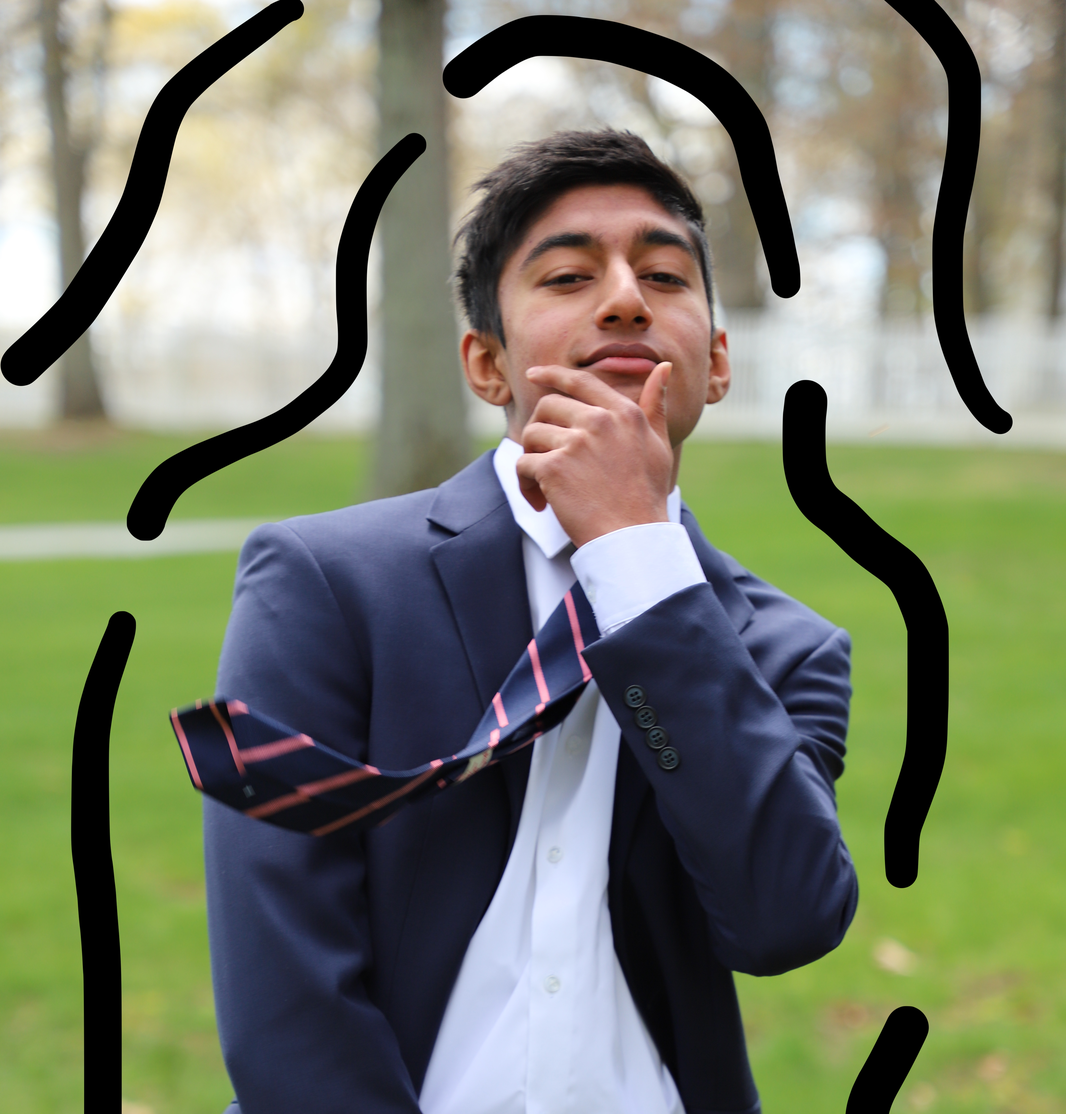
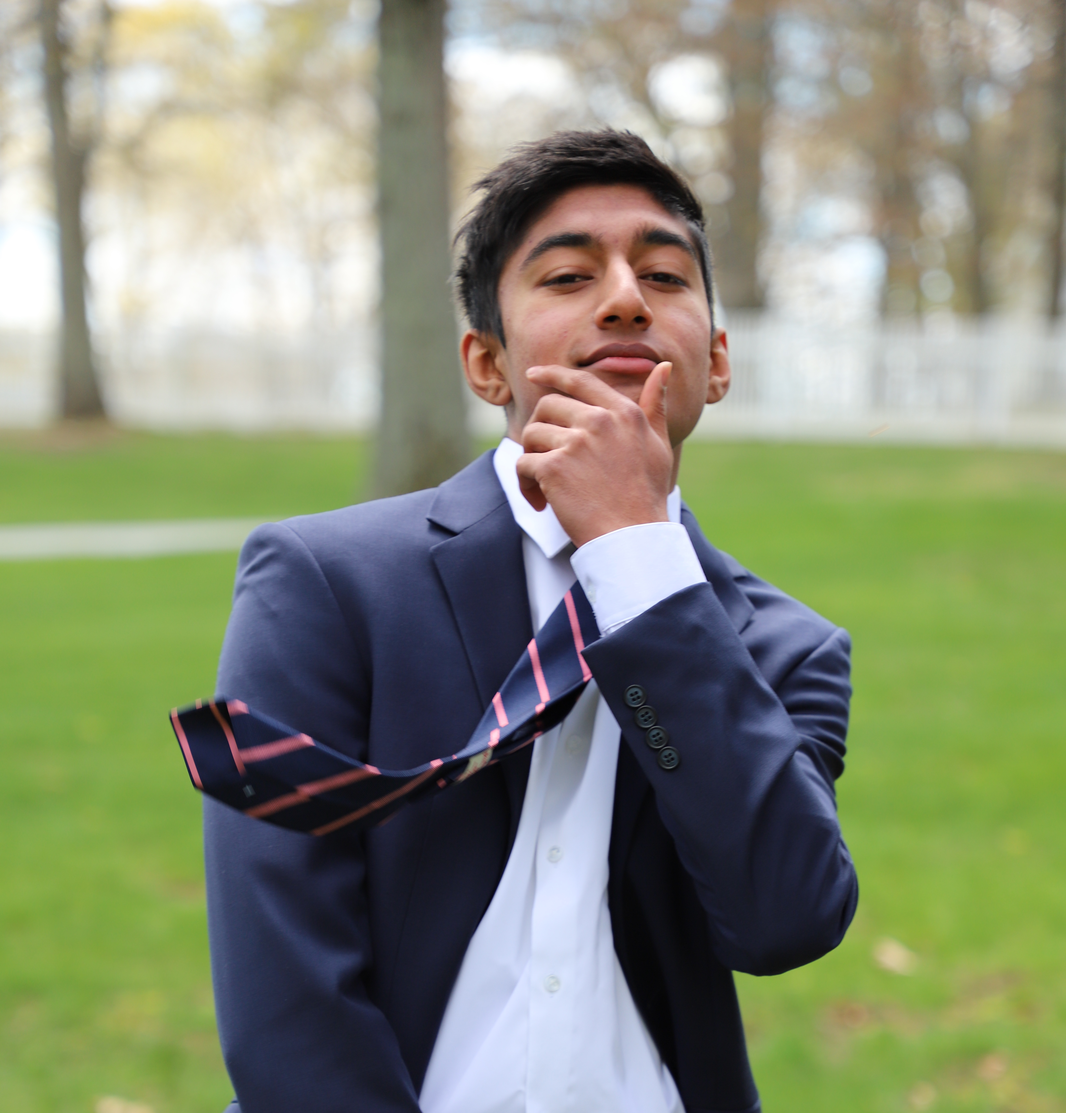
stable version of about page

diff --git a/final/aboutPage/index.html b/final/aboutPage/index.html
@@ -12,6 +12,7 @@
   <title>about</title>
   <script src="https://cdnjs.cloudflare.com/ajax/libs/animejs/3.2.0/anime.min.js"></script>
   <link href="https://fonts.googleapis.com/css2?family=Montserrat:wght@100&display=swap" rel="stylesheet">
+  <!-- <link href="https://fonts.googleapis.com/css2?family=Montserrat&display=swap" rel="stylesheet"> -->
   <link rel="stylesheet" href="https://cdnjs.cloudflare.com/ajax/libs/font-awesome/4.7.0/css/font-awesome.min.css">
   <link rel="stylesheet" href="style.css">
 </head>
@@ -41,7 +42,8 @@
     <a href="https://www.linkedin.com/in/sameer-desai-998679175/" class="linkedin"><i class="fa fa-linkedin"></i></a>
     <a href="https://www.instagram.com/smee_boi/" class="instagram"><i class="fa fa-instagram"></i></a>
     <a href="https://soundcloud.com/user-949043667" class="soundcloud"><i class="fa fa-soundcloud"></i></a>
-    <a href="mailto: sameer.desai.boston@gmail.com" class="google"><i class="fa fa-google"></i></a>
+    <a href="https://github.com/SmeeBoi" class="github"><i class="fa fa-github"></i></a>
+    <!-- <a href="mailto: sameer.desai.boston@gmail.com" class="google"><i class="fa fa-google"></i></a> -->
 
   </div>
 
@@ -72,9 +74,8 @@
     </div>
 
     <p>Source Code: <a href="https://github.com/SmeeBoi/senior-project/tree/master/final/exhibit01"> https://github.com/SmeeBoi/senior-project/tree/master/final/exhibit01 </a> </p>
-    <p class="textBlock">Exhibit 01 was created using the p5.js library in conjunction with matter.js, a popular 2D physics engine. The size of each circle object is contrulled by the vulume of the music and all of the circle objects have Collision
-      detection, friction,
-      and gravity thanks to the physics engine. All the calculations are done in the matter.js physics engine while p5.js processes the audio and does all the drawing on the HTML canvas. </p>
+    <p class="textBlock">Exhibit 01 was created using the p5.js library in conjunction with matter.js, a popular 2D physics engine. The size of each circle object is controlled by the volume of the music and all of the circle objects have collision
+      detection, friction, and gravity thanks to the physics engine. All the calculations are done in the matter.js physics engine while p5.js processes the audio and does all the drawing on the HTML canvas. </p>
 
 
     <p class="music">Music</p>
@@ -111,10 +112,10 @@
     </div>
 
     <p>Source Code: <a href="https://github.com/SmeeBoi/senior-project/tree/master/final/exhibit02"> https://github.com/SmeeBoi/senior-project/tree/master/final/exhibit02 </a> </p>
-    <p>Exhibit 02 was created using p5 along with ml5.js, a library which provides a friendly way to explore machine learning in the browser. ml5.js allows you to use various neural nets and pretrained models with ease and was made to work
-      especially
-      well with p5. I used face-api.js through ml5.js to do real-time face tracking in the browser. ml5.js provided all the (x,y) coordinates of the face landmarks and again p5 did the drawing and mapped the music vulume to the size of the eye’s
-      pupils.</p>
+    <p>Exhibit 02 was created using p5 along with ml5.js, a library which provides a friendly way to explore machine learning in the browser. ml5.js allows you to use various neural nets and pretrained models with ease and was made to work especially
+      well with p5. I used face-api.js through ml5.js to do real-time face tracking in the browser. ml5.js provided all the (x,y) coordinates of the face landmarks and again p5 did the drawing and mapped the music volume to the size of the eye’s
+      pupils.
+    </p>
     <p class="music">Music</p>
     <ul>
       <li>- "Aislin" by ENRA & Sleepermane: <a href="https://open.spotify.com/track/4cIipmyWE4ARylVMwcRBlm"> https://open.spotify.com/track/5hEPZyP3jq5FiPxkBPpCfy </a></li>
@@ -151,11 +152,9 @@
 
     <p>Source Code: <a href="https://github.com/SmeeBoi/senior-project/tree/master/final/exhibit03"> https://github.com/SmeeBoi/senior-project/tree/master/final/exhibit03 </a> </p>
     <p>Exhibit 03 was made using p5’s WebGL mode which enables 3D rendering in the browser. WebGL is a program which allows interactive 2D and 3D graphics to run on the web. The syntax is very complex and so there are many other libraries that work
-      on
-      top of it to simplify the creative process such as https://threejs.org/ three.js, Unity (game engine), and in my case p5.js. The shifting terrain is a mesh made using Perlin noise which is a randomization algorithm that mimics nature keeping
-      it
-      smooth and
-      connected.The camera utilises orbit contrul which allows the user to look around the 3D space with mouse interactions. Once again p5 is taking the audio and making it contrul the size of the cubes.
+      on top of it to simplify the creative process such as three.js, Unity (game engine), and in my case p5.js. The shifting terrain is a mesh made using Perlin noise which is a randomization algorithm that mimics nature keeping it smooth and
+      connected.The camera utilises orbit control which allows the user to look around the 3D space with mouse interactions. Once again p5 is taking the audio and making it control the size of the cubes.
+
     </p>
     <p class="music">Music</p>
     <ul>
@@ -217,8 +216,8 @@
 
   <div class="artistText">
 
-    <p>Sameer Desai is an engineer based in Boston, Massachusetts. In his free time he dabbles in creative coding and digital music production. If you have any questions or comments contact him at:
-      <a href="mailto: sameer.desai.boston@gmail.com">sameer.desai.boston@gmail.com</a>
+    <p>Sameer Desai is an engineer based in Boston, Massachusetts. In his free time he dabbles in creative coding and digital music production. If you have any questions or comments contact him at: sameer.desai.boston@gmail.com
+      <!-- <a href="mailto: sameer.desai.boston@gmail.com">sameer.desai.boston@gmail.com</a> -->
     </p>
 
 

diff --git a/final/aboutPage/mailLink.js b/final/aboutPage/mailLink.js
@@ -1,0 +1,41 @@
+$(document).ready(function() {
+
+	// Add class to mailto link
+	// Needed to separate the disabling of the default action AND copy email to clipboard
+	$('a[href^=mailto]').addClass('mailto-link');
+
+	var mailto = $('.mailto-link');
+	var messageCopy = 'Click to copy email address';
+	var messageSuccess = 'Email address copied to clipboard';
+
+	mailto.append('<span class="mailto-message"></span>');
+	$('.mailto-message').append(messageCopy);
+
+	// Disable default action (opening your email client. yuk.)
+	$('a[href^=mailto]').click(function() {
+		return false;
+	})
+
+	// On click, get href and remove 'mailto:'
+	// Store email address in a variable.
+	mailto.click(function() {
+		var href = $(this).attr('href');
+		var email = href.replace('mailto:', '');
+		copyToClipboard(email);
+		$('.mailto-message').empty().append(messageSuccess);
+		setTimeout(function() {
+			$('.mailto-message').empty().append(messageCopy);}, 2000);
+	});
+
+});
+
+// Grabbed this from Stack Overflow.
+// Copies the email variable to clipboard
+function copyToClipboard(text) {
+    var dummy = document.createElement("input");
+    document.body.appendChild(dummy);
+    dummy.setAttribute('value', text);
+    dummy.select();
+    document.execCommand('copy');
+    document.body.removeChild(dummy);
+}

diff --git a/final/aboutPage/style.css b/final/aboutPage/style.css
@@ -56,6 +56,7 @@ html{
 
 
 .sameer{
+  filter: grayscale(100%);
   width:500px;
   display:flex;
   justify-content: center;
@@ -155,7 +156,7 @@ body{
   margin-right: auto;
   margin-left: auto;
   width: 50%;
-  font-family: 'Montserrat';
+  font-family: 'Montserrat', sans-serif;
   font-size: 20px;
   color: white;
   text-decoration: none;
@@ -211,7 +212,7 @@ li{
 
 
 a{
-  font-family: 'Montserrat';
+  font-family: 'Montserrat', sans-serif;
   font-size: 20px;
   color: white;
   text-decoration: underline;
@@ -242,11 +243,19 @@ a:hover {
 
 }
 
+
 .smallImages:hover{
   /* border-color: cyan; */
   filter: grayscale(0%);
   transition: all 0.4s ease 0s;
 }
+
+.sameer:hover{
+  filter: grayscale(0%);
+  transition: all 0.5s ease 0s;
+}
+
+
 
 .exhibitBlock{
   padding: 30px;
@@ -273,7 +282,7 @@ a:hover {
 
 .nav_links li {
   padding: 15px 0px;
-  font-family: 'Montserrat';
+  font-family: 'Montserrat', sans-serif;
   font-size: 20px;
   color: white;
   text-decoration: none;
